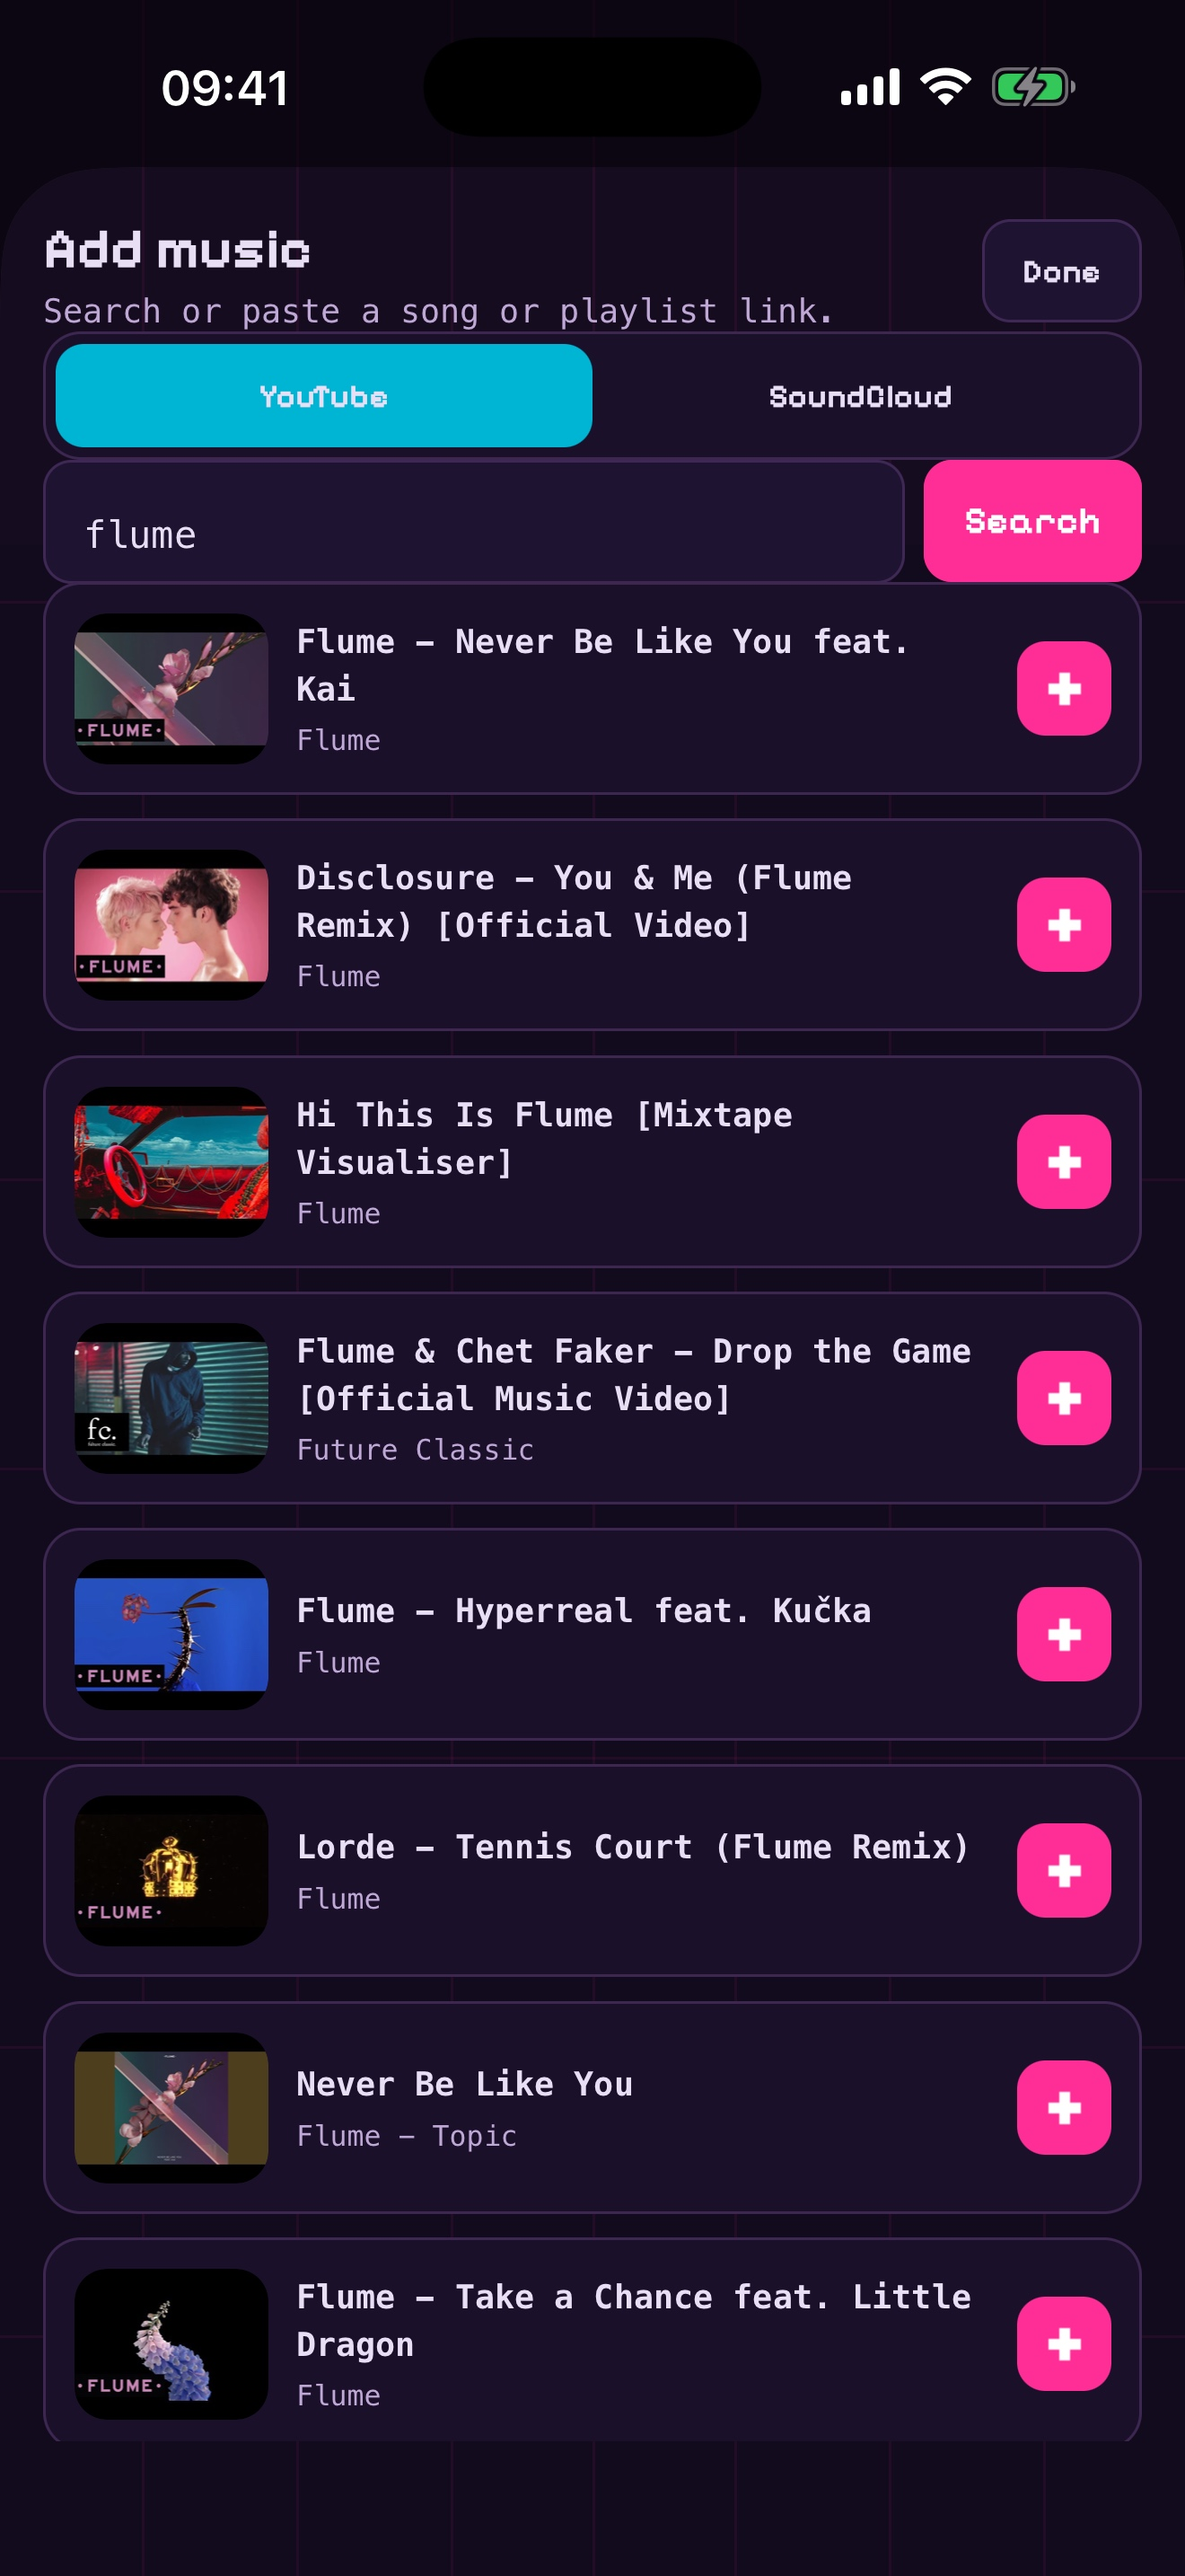
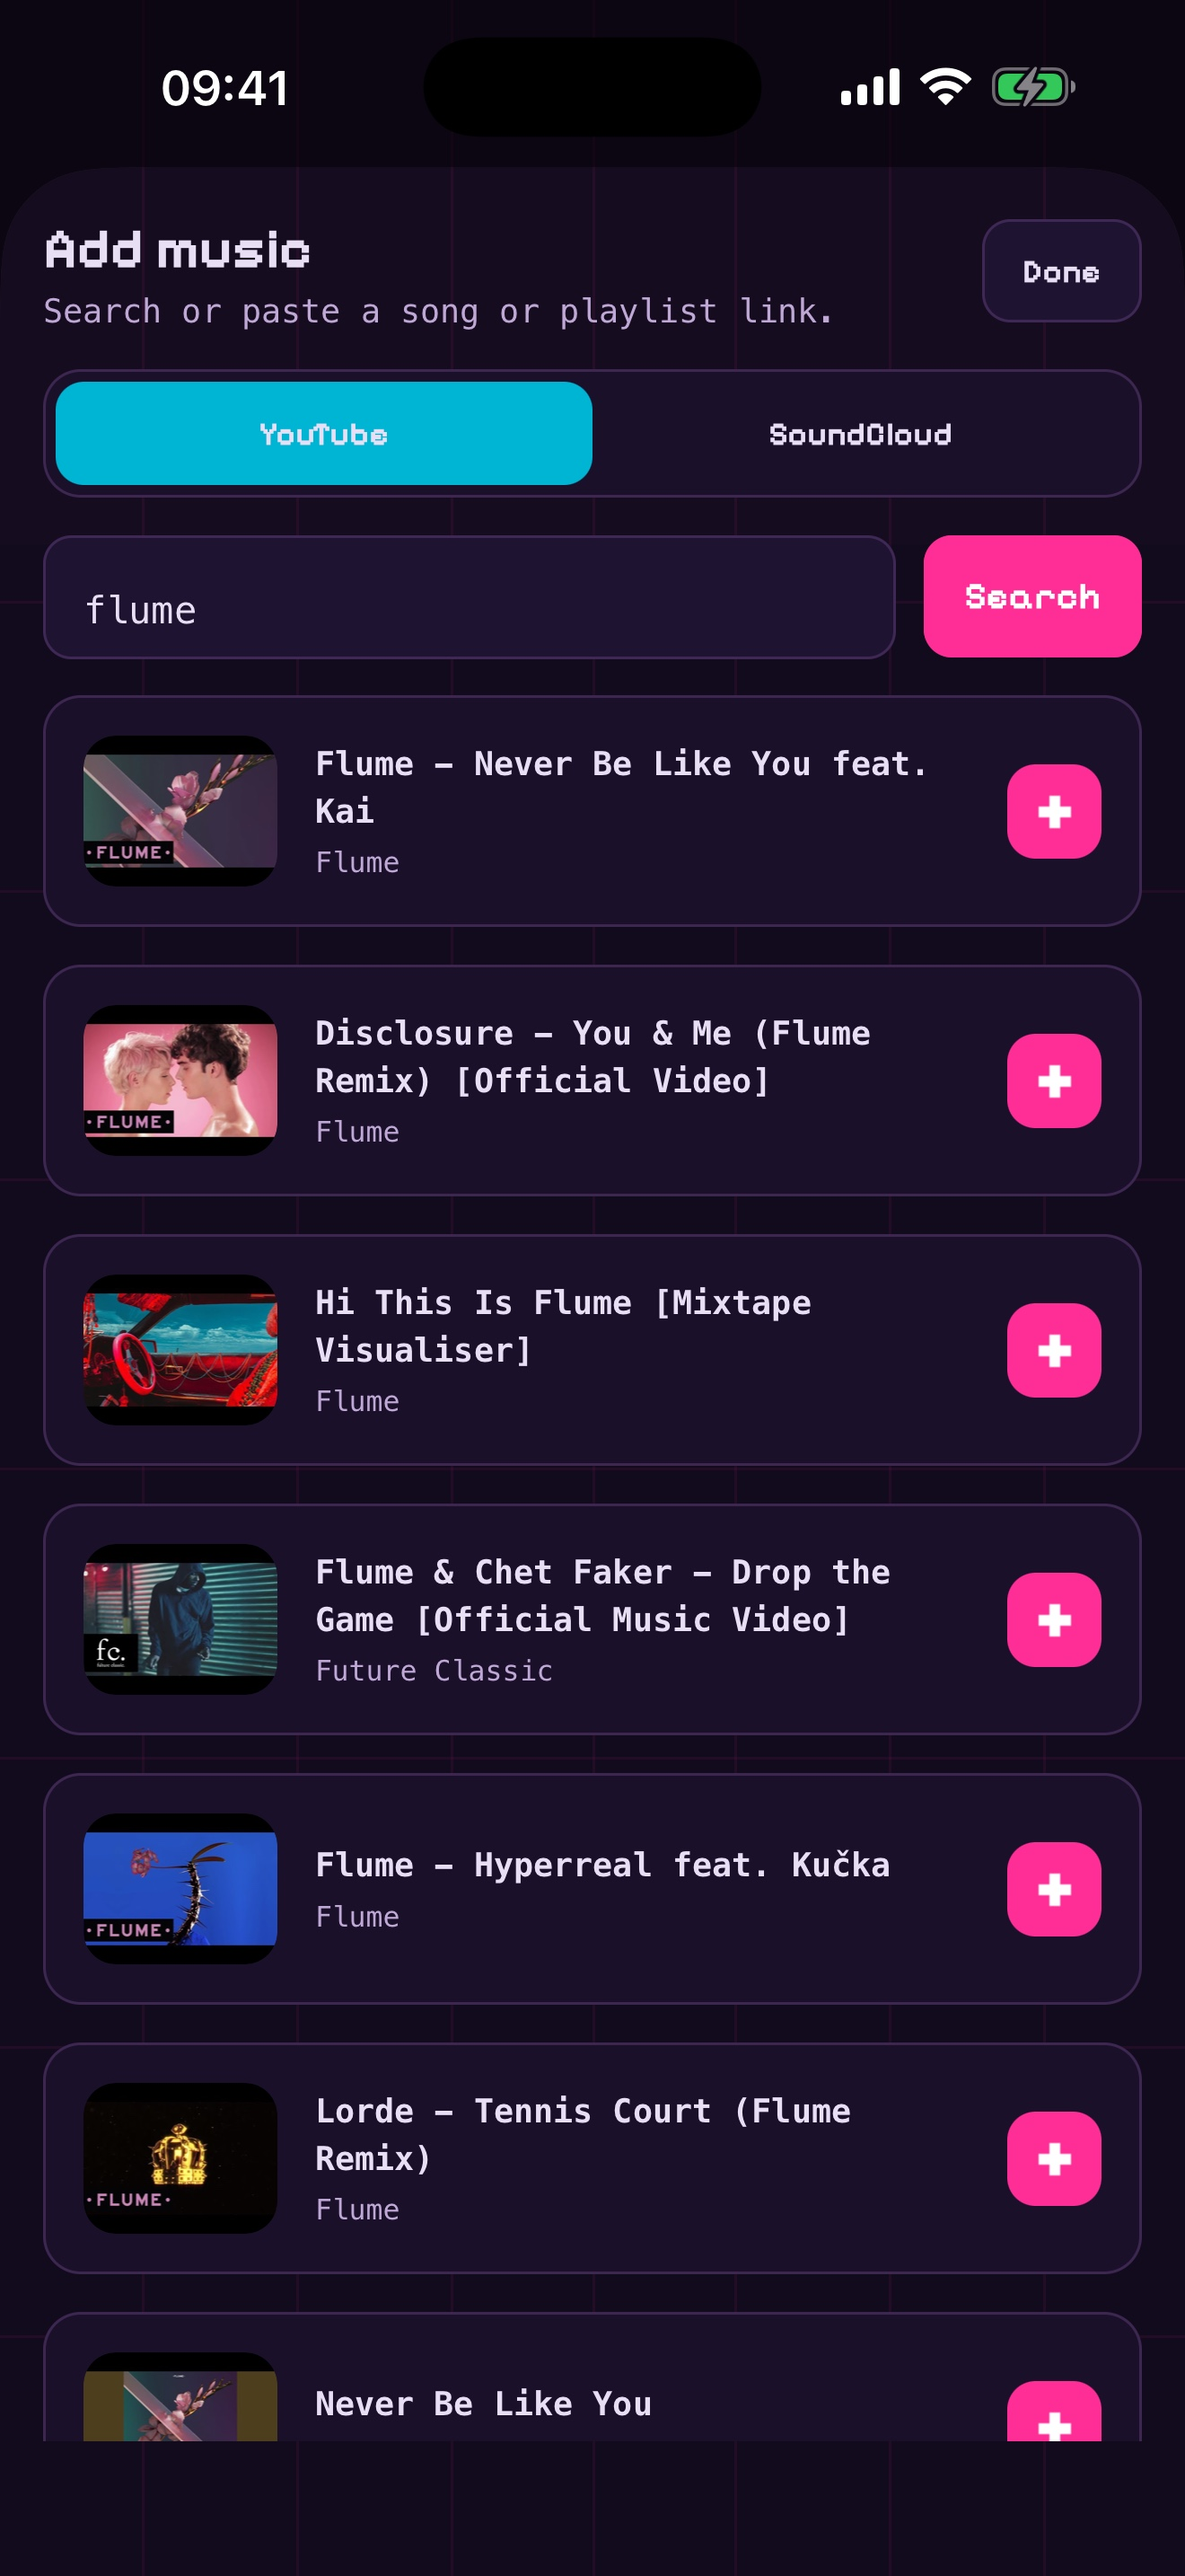
fix: refine mobile search and provider playback

diff --git a/apps/mobile/src/components/search-sheet.tsx b/apps/mobile/src/components/search-sheet.tsx
@@ -240,11 +240,11 @@ export function SearchSheet({
     >
       <Screen>
         <SafeAreaView
-          className="flex-1 gap-3"
+          className="flex-1"
           edges={['top', 'bottom']}
           style={{ flex: 1, padding: 16 }}
         >
-          <View className="flex-row items-center justify-between gap-3">
+          <View className="mb-4 flex-row items-center justify-between gap-4">
             <View className="min-w-0 flex-1 gap-0.5">
               <Text className="font-heading text-2xl text-mobile-text dark:text-mobile-dark-text">
                 Add music
@@ -262,50 +262,54 @@ export function SearchSheet({
               </Text>
             </Pressable>
           </View>
-          <View className="flex-row rounded-2xl border border-mobile-border bg-mobile-card p-1 dark:border-mobile-dark-border dark:bg-mobile-dark-card">
-            {enabledProviders.map((source) => (
-              <Pressable
-                key={source}
-                className={`min-h-11 flex-1 items-center justify-center rounded-xl px-3 ${
-                  provider === source ? 'bg-accent' : 'bg-transparent'
-                }`}
-                onPress={() => setProvider(source)}
-              >
-                <Text className="font-heading text-mobile-text text-sm dark:text-mobile-dark-text">
-                  {providerLabels[source]}
-                </Text>
-              </Pressable>
-            ))}
-          </View>
-          <View className="flex-row gap-2">
-            <View className="flex-1">
-              <Field
-                ref={inputRef}
-                value={query}
-                onChangeText={(value) => {
-                  setQuery(value);
-                  setError('');
-                  setPlaylist(null);
-                }}
-                onSubmitEditing={() => void search()}
-                placeholder="Search music"
+          <View className="mb-4 gap-4">
+            <View className="flex-row rounded-2xl border border-mobile-border bg-mobile-card p-1 dark:border-mobile-dark-border dark:bg-mobile-dark-card">
+              {enabledProviders.map((source) => (
+                <Pressable
+                  key={source}
+                  className={`min-h-11 flex-1 items-center justify-center rounded-xl px-3 ${
+                    provider === source ? 'bg-accent' : 'bg-transparent'
+                  }`}
+                  onPress={() => setProvider(source)}
+                >
+                  <Text className="font-heading text-mobile-text text-sm dark:text-mobile-dark-text">
+                    {providerLabels[source]}
+                  </Text>
+                </Pressable>
+              ))}
+            </View>
+            <View className="flex-row gap-3">
+              <View className="flex-1">
+                <Field
+                  ref={inputRef}
+                  value={query}
+                  onChangeText={(value) => {
+                    setQuery(value);
+                    setError('');
+                    setPlaylist(null);
+                  }}
+                  onSubmitEditing={() => void search()}
+                  placeholder="Search music"
+                />
+              </View>
+              <Button
+                disabled={loading}
+                label={loading ? 'Searching…' : 'Search'}
+                onPress={() => void search()}
               />
             </View>
-            <Button
-              disabled={loading}
-              label={loading ? 'Searching…' : 'Search'}
-              onPress={() => void search()}
-            />
           </View>
           {playlist && (
-            <Button
-              disabled={loading}
-              label={`Add all ${playlist.tracks.length} songs`}
-              onPress={() => void addPlaylist()}
-            />
+            <View className="mb-4">
+              <Button
+                disabled={loading}
+                label={`Add all ${playlist.tracks.length} songs`}
+                onPress={() => void addPlaylist()}
+              />
+            </View>
           )}
           {Boolean(error) && (
-            <Text className="font-mono text-error text-xs">{error}</Text>
+            <Text className="mb-4 font-mono text-error text-xs">{error}</Text>
           )}
           <FlatList
             contentContainerStyle={{ flexGrow: 1, paddingBottom: 16 }}
@@ -325,7 +329,7 @@ export function SearchSheet({
             renderItem={({ item }) => (
               <Pressable
                 accessibilityLabel={`Add ${item.title}`}
-                className="min-h-19 flex-row items-center gap-3 rounded-2xl border border-mobile-border bg-mobile-card p-3 active:border-accent active:bg-mobile-surface dark:border-mobile-dark-border dark:bg-mobile-dark-card dark:active:bg-mobile-dark-surface"
+                className="min-h-19 flex-row items-center gap-4 rounded-2xl border border-mobile-border bg-mobile-card p-4 active:border-accent active:bg-mobile-surface dark:border-mobile-dark-border dark:bg-mobile-dark-card dark:active:bg-mobile-dark-surface"
                 onPress={() => void add(item)}
               >
                 <Image
@@ -352,7 +356,7 @@ export function SearchSheet({
                 </View>
               </Pressable>
             )}
-            ItemSeparatorComponent={() => <View className="h-2.5" />}
+            ItemSeparatorComponent={() => <View className="h-4" />}
           />
         </SafeAreaView>
       </Screen>

diff --git a/apps/mobile/src/components/provider-player.tsx b/apps/mobile/src/components/provider-player.tsx
@@ -32,6 +32,10 @@ export function ProviderPlayer({ playback, song }: ProviderPlayerProps) {
   );
 
   useEffect(() => {
+    setError('');
+  }, [songId]);
+
+  useEffect(() => {
     if (!song || song.sourceType === 'youtube') return;
     webViewRef.current?.injectJavaScript(
       `window.zoffSetPlaying?.(${playback?.isPlaying ? 'true' : 'false'}); true;`,
@@ -118,6 +122,12 @@ export function ProviderPlayer({ playback, song }: ProviderPlayerProps) {
         allowsProtectedMedia
         bounces={false}
         mediaPlaybackRequiresUserAction={false}
+        onError={() =>
+          setError(`Could not load the ${song.sourceType} player.`)
+        }
+        onHttpError={() =>
+          setError(`Could not load the ${song.sourceType} player.`)
+        }
         onLoadEnd={initializePlayback}
         originWhitelist={['https://*']}
         scrollEnabled={false}
@@ -147,20 +157,32 @@ function getPlayerHtml(
         let initialPosition = 0;
         let shouldPlay = false;
         const player = SC.Widget(document.getElementById('player'));
-        player.bind(SC.Widget.Events.READY, () => {
+        let ready = false;
+        const syncPlayback = () => {
+          if (!ready) return;
           player.seekTo(initialPosition);
           if (shouldPlay) player.play();
+          else player.pause();
+        };
+        player.bind(SC.Widget.Events.READY, () => {
+          ready = true;
+          syncPlayback();
         });
         window.zoffInitialize = (position, playing) => {
           initialPosition = position;
           shouldPlay = playing;
+          syncPlayback();
         };
         window.zoffSetPlaying = (playing) => {
           shouldPlay = playing;
-          if (playing) player.play();
+          if (!ready) return;
+          if (shouldPlay) player.play();
           else player.pause();
         };
-        window.zoffSeek = (position) => player.seekTo(position);
+        window.zoffSeek = (position) => {
+          initialPosition = position;
+          if (ready) player.seekTo(position);
+        };
       </script>
     `);
   }
@@ -172,20 +194,26 @@ function getPlayerHtml(
       let controller;
       let initialPosition = 0;
       let shouldPlay = false;
+      const syncPlayback = () => {
+        if (!controller) return;
+        controller.seek(initialPosition);
+        if (shouldPlay) controller.resume();
+        else controller.pause();
+      };
       window.onSpotifyIframeApiReady = (IFrameAPI) => {
         IFrameAPI.createController(
           document.getElementById('player'),
           { uri: 'spotify:track:' + ${serializedSourceId}, height: '100%', width: '100%' },
           (nextController) => {
             controller = nextController;
-            controller.seek(initialPosition);
-            if (shouldPlay) controller.resume();
+            syncPlayback();
           }
         );
       };
       window.zoffInitialize = (position, playing) => {
         initialPosition = position;
         shouldPlay = playing;
+        syncPlayback();
       };
       window.zoffSetPlaying = (playing) => {
         shouldPlay = playing;
@@ -193,7 +221,10 @@ function getPlayerHtml(
         if (playing) controller.resume();
         else controller.pause();
       };
-      window.zoffSeek = (position) => controller?.seek(position);
+      window.zoffSeek = (position) => {
+        initialPosition = position;
+        controller?.seek(position);
+      };
     </script>
   `);
 }
